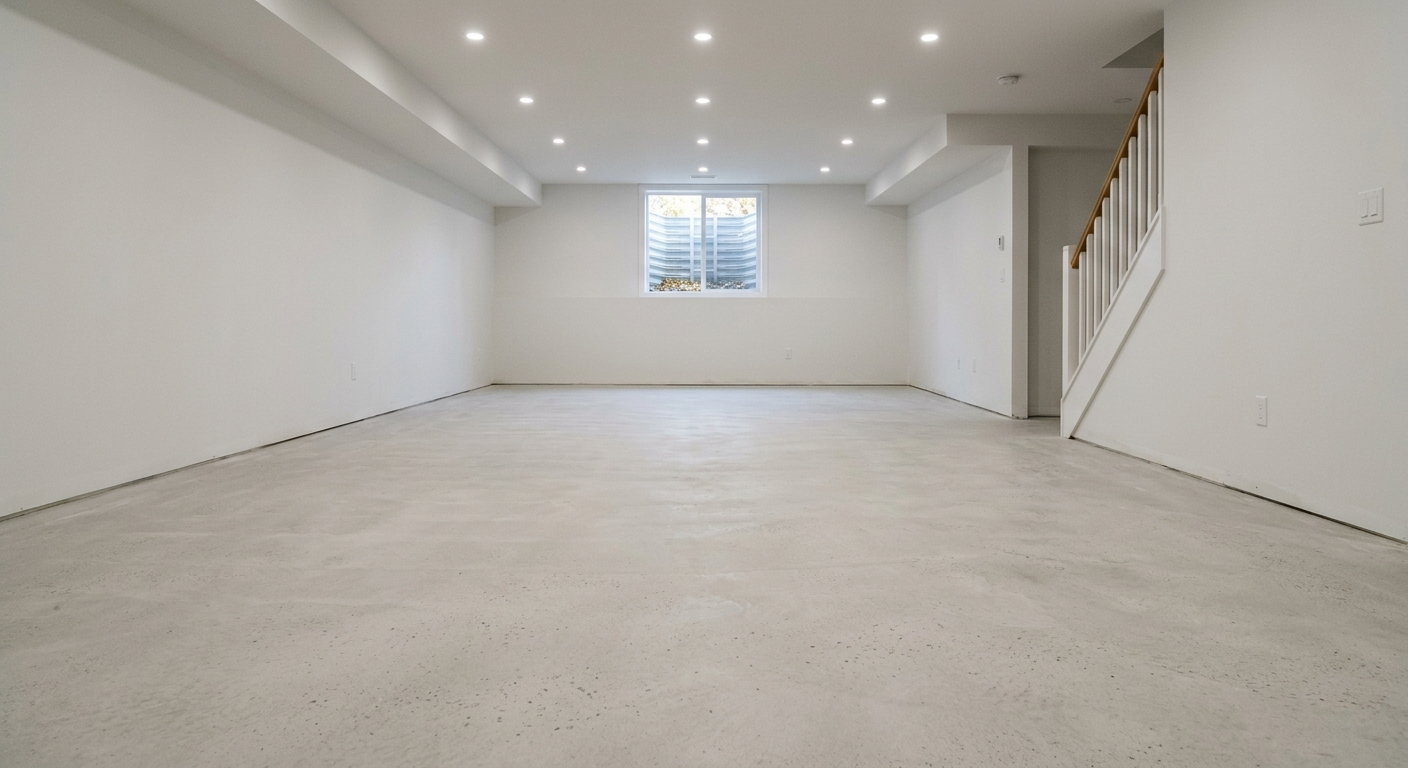
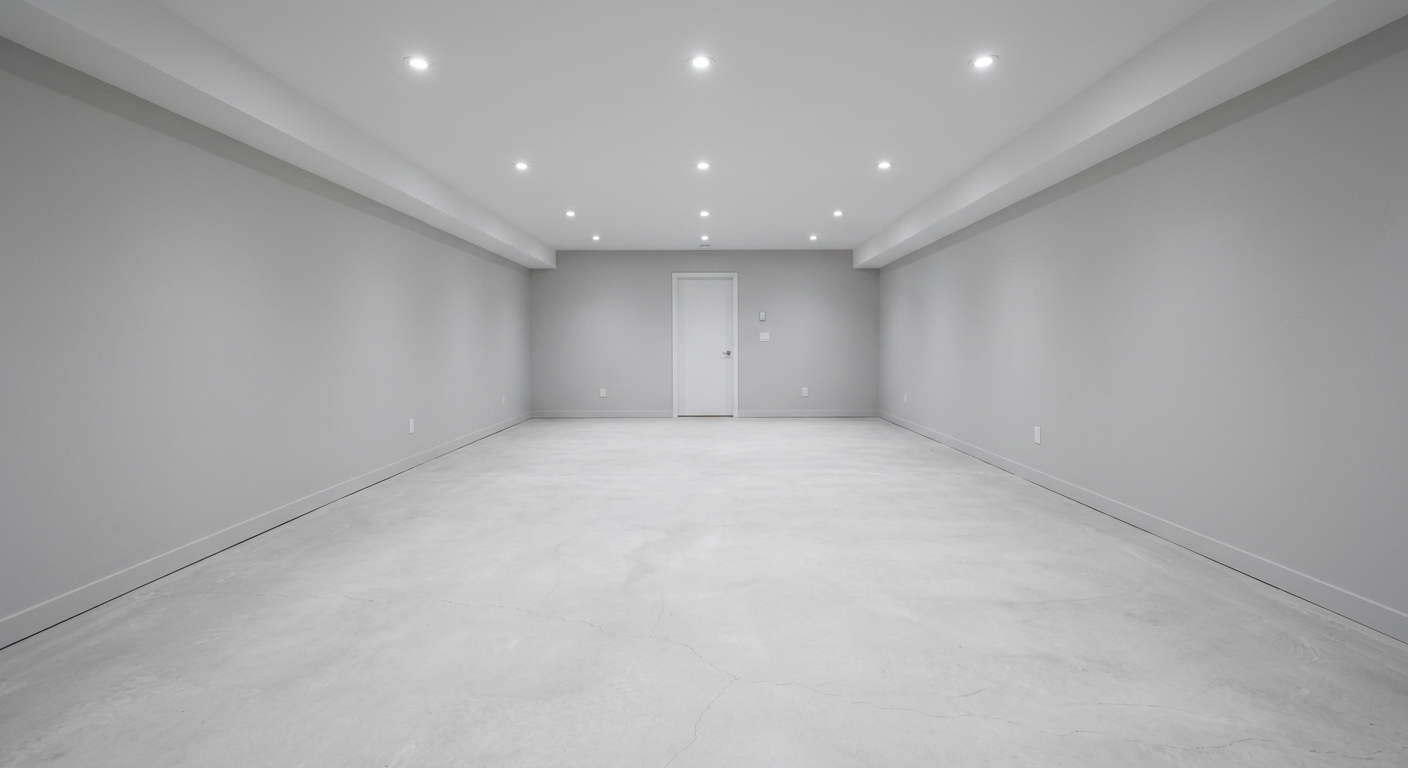
Visualizer v2: photoreal flake, real catalog swatches, fix glitchy rooms
- Flake engine rewritten to layered Voronoi: full angular coverage, inter-chip
  shadow gaps, per-chip lightness + within-chip marbling, coarse+fine size
  variation, mica sparkle. Reads like real vinyl flake instead of polka dots.
- Catalog swatches are now REAL rendered flake (renderer.swatchDataURL per
  preset) instead of the CSS dot placeholder; added a live current-blend preview
  and % readouts on the custom blend sliders.
- Fixed glitchy non-garage rooms: removed the window-reflection sampling that
  caused a bright blob (gloss is now a clean procedural sheen), and regenerated
  basement/showroom/gym as clean straight-on rectangular rooms so the floor quad
  works like the garage. Re-authored corners; dropped the wall-reject hack.
- 4 environments now (garage, basement, showroom, gym) + upload-your-own.

diff --git a/components/visualizer/Visualizer.tsx b/components/visualizer/Visualizer.tsx
@@ -22,6 +22,8 @@ export default function Visualizer() {
   const rendererRef = useRef<FlakeRenderer | null>(null);
   const [error, setError] = useState<string | null>(null);
   const [ready, setReady] = useState(false);
+  const [swatches, setSwatches] = useState<Record<string, string>>({});
+  const [currentSwatch, setCurrentSwatch] = useState<string>("");
 
   const [scene, setScene] = useState<Scene>(presetScenes[0]);
   const [blend, setBlend] = useState<Blend>(presets[0]);
@@ -33,11 +35,15 @@ export default function Visualizer() {
   const [marking, setMarking] = useState<{ url: string; w: number; h: number } | null>(null);
   const [markCorners, setMarkCorners] = useState<Corner[]>([[0.06, 0.92], [0.94, 0.92], [0.72, 0.58], [0.28, 0.58]]);
 
-  // init renderer
+  // init renderer + pre-render the real flake swatches for the whole catalog
   useEffect(() => {
     if (!canvasRef.current) return;
     try {
-      rendererRef.current = new FlakeRenderer(canvasRef.current);
+      const r = new FlakeRenderer(canvasRef.current);
+      rendererRef.current = r;
+      const sw: Record<string, string> = {};
+      for (const p of presets) sw[p.slug] = r.swatchDataURL(p, 240);
+      setSwatches(sw);
     } catch (e) {
       setError(e instanceof Error ? e.message : "WebGL2 is not available in this browser.");
     }
@@ -51,16 +57,32 @@ export default function Visualizer() {
     let alive = true;
     setReady(false);
     r.loadScene(scene.image, scene.corners, scene.tile, scene.wallReject ?? 1.2)
-      .then(() => { if (alive) { r.render(blend, gloss); setReady(true); } })
+      .then(() => {
+        if (!alive) return;
+        setCurrentSwatch(r.swatchDataURL(blend, 240)); // renders flake into the FBO
+        r.composite(gloss);
+        setReady(true);
+      })
       .catch((e) => setError(String(e?.message || e)));
     return () => { alive = false; };
     // eslint-disable-next-line react-hooks/exhaustive-deps
   }, [scene]);
 
-  // re-render on blend/gloss
+  // flake recipe changed -> regen swatch (also fills the FBO) + repaint floor
   useEffect(() => {
-    if (rendererRef.current && ready && !error) rendererRef.current.render(blend, gloss);
-  }, [blend, gloss, ready, error]);
+    const r = rendererRef.current;
+    if (!r || !ready || error) return;
+    setCurrentSwatch(r.swatchDataURL(blend, 240));
+    r.composite(gloss);
+    // eslint-disable-next-line react-hooks/exhaustive-deps
+  }, [blend, ready]);
+
+  // gloss only -> recomposite (cheap, no flake re-render)
+  useEffect(() => {
+    const r = rendererRef.current;
+    if (r && ready && !error) r.composite(gloss);
+    // eslint-disable-next-line react-hooks/exhaustive-deps
+  }, [gloss]);
 
   const loadPreset = (p: Blend) => { setBlend(p); setGloss(p.gloss); };
   const patch = (u: Partial<Blend>) => setBlend((b) => ({ ...b, ...u, name: "Custom Blend", code: "EG-000" }));
@@ -108,6 +130,21 @@ export default function Visualizer() {
 
       {/* ---- control rail ---- */}
       <aside className="flex flex-col border-t border-line bg-paper lg:border-l lg:border-t-0">
+        {/* current blend preview */}
+        <div className="flex items-center gap-3 border-b border-line p-4">
+          {currentSwatch ? (
+            // eslint-disable-next-line @next/next/no-img-element
+            <img src={currentSwatch} alt="" className="h-14 w-14 shrink-0 border border-line-2 object-cover" />
+          ) : (
+            <span className="h-14 w-14 shrink-0 border border-line-2" style={swatchStyle(blend)} />
+          )}
+          <div className="min-w-0">
+            <div className="truncate text-[0.95rem] text-ink">{blend.name}</div>
+            <div className="mono-label text-muted">
+              {blend.code} · {sizeMeta[blend.size].label} · {glossLabel(gloss)}
+            </div>
+          </div>
+        </div>
         {/* tabs */}
         <div className="grid grid-cols-3 border-b border-line">
           {(["presets", "custom", "rooms"] as const).map((t) => (
@@ -136,16 +173,25 @@ export default function Visualizer() {
                 ))}
               </div>
               <div className="mt-5 grid grid-cols-3 gap-x-4 gap-y-5">
-                {filtered.map((p) => (
-                  <button key={p.slug} onClick={() => loadPreset(p)} className="group text-left">
-                    <span
-                      className={`block aspect-square w-full border ${blend.name === p.name && blend.code === p.code ? "border-accent" : "border-line-2"}`}
-                      style={swatchStyle(p)}
-                    />
-                    <span className="mt-2 block text-[0.8rem] leading-tight text-ink">{p.name}</span>
-                    <span className="mono-label text-muted">{p.code}</span>
-                  </button>
-                ))}
+                {filtered.map((p) => {
+                  const active = blend.name === p.name && blend.code === p.code;
+                  return (
+                    <button key={p.slug} onClick={() => loadPreset(p)} className="group text-left">
+                      {swatches[p.slug] ? (
+                        // eslint-disable-next-line @next/next/no-img-element
+                        <img
+                          src={swatches[p.slug]}
+                          alt={`${p.name} flake blend`}
+                          className={`block aspect-square w-full border object-cover transition-transform group-hover:scale-[1.02] ${active ? "border-accent" : "border-line-2"}`}
+                        />
+                      ) : (
+                        <span className={`block aspect-square w-full border ${active ? "border-accent" : "border-line-2"}`} style={swatchStyle(p)} />
+                      )}
+                      <span className="mt-2 block text-[0.8rem] leading-tight text-ink">{p.name}</span>
+                      <span className="mono-label text-muted">{p.code}</span>
+                    </button>
+                  );
+                })}
               </div>
             </div>
           )}
@@ -163,18 +209,22 @@ export default function Visualizer() {
               </Field>
 
               <Field label={`Flake colors · ${blend.chips.length}/5`}>
-                <div className="space-y-2">
-                  {blend.chips.map((ch, i) => (
-                    <div key={i} className="flex items-center gap-2">
-                      <span className="h-6 w-6 shrink-0 border border-line-2" style={{ background: ch.hex }} />
-                      <input type="range" min={1} max={10} value={Math.round(ch.weight * 10)}
-                        onChange={(e) => { const c = [...blend.chips]; c[i] = { ...c[i], weight: +e.target.value / 10 }; patch({ chips: c }); }}
-                        className="flex-1 accent-[var(--color-accent)]" />
-                      {blend.chips.length > 1 && (
-                        <button onClick={() => patch({ chips: blend.chips.filter((_, j) => j !== i) })} className="mono-label text-muted hover:text-accent">✕</button>
-                      )}
-                    </div>
-                  ))}
+                <div className="space-y-2.5">
+                  {(() => {
+                    const total = blend.chips.reduce((s, c) => s + c.weight, 0) || 1;
+                    return blend.chips.map((ch, i) => (
+                      <div key={i} className="flex items-center gap-2.5">
+                        <span className="h-6 w-6 shrink-0 border border-line-2" style={{ background: ch.hex }} />
+                        <input type="range" min={1} max={20} value={Math.round(ch.weight * 20)}
+                          onChange={(e) => { const c = [...blend.chips]; c[i] = { ...c[i], weight: +e.target.value / 20 }; patch({ chips: c }); }}
+                          className="flex-1 accent-[var(--color-accent)]" />
+                        <span className="mono-label tnum w-9 text-right text-ink-2">{Math.round((ch.weight / total) * 100)}%</span>
+                        {blend.chips.length > 1 && (
+                          <button onClick={() => patch({ chips: blend.chips.filter((_, j) => j !== i) })} aria-label="Remove color" className="mono-label text-muted transition-colors hover:text-accent">✕</button>
+                        )}
+                      </div>
+                    ));
+                  })()}
                 </div>
                 {blend.chips.length < 5 && (
                   <div className="mt-3 flex flex-wrap gap-1.5 border-t border-line pt-3">

diff --git a/lib/visualizer/renderer.ts b/lib/visualizer/renderer.ts
@@ -61,31 +61,45 @@ uniform vec3 uBase; uniform vec3 uChips[5]; uniform float uCdf[5];
 uniform int uChipN; uniform float uGrid; uniform float uCoverage; uniform float uSeed;
 float h1(vec2 p){ p=fract(p*vec2(123.34,456.21)); p+=dot(p,p+45.32); return fract(p.x*p.y); }
 vec2 h2(vec2 p){ return fract(sin(vec2(dot(p,vec2(127.1,311.7)),dot(p,vec2(269.5,183.3))))*43758.5453); }
+float vnoise(vec2 p){ vec2 i=floor(p),f=fract(p); f=f*f*(3.0-2.0*f);
+  return mix(mix(h1(i),h1(i+vec2(1,0)),f.x), mix(h1(i+vec2(0,1)),h1(i+vec2(1,1)),f.x), f.y); }
 vec3 pick(float r){ for(int i=0;i<5;i++){ if(i>=uChipN) break; if(r<=uCdf[i]) return uChips[i]; } return uChips[0]; }
-void main(){
-  vec2 cell = floor(vUv*uGrid);
-  vec3 col = uBase; float bestZ = -1.0;
+
+// Voronoi over a wrapped (seamless) grid -> owner cell (xy) + f1,f2 (nearest, 2nd-nearest sq dist)
+vec4 vor(vec2 uv, float grid, float so){
+  vec2 cell = floor(uv*grid);
+  float f1=9.0, f2=9.0; vec2 owner=vec2(0.0);
   for(int dy=-1;dy<=1;dy++) for(int dx=-1;dx<=1;dx++){
     vec2 c = cell+vec2(float(dx),float(dy));
-    vec2 cw = mod(c,uGrid);
-    vec2 hh = h2(cw+uSeed);
-    vec2 seed = (c+0.18+0.64*hh)/uGrid;
-    vec2 dd = vUv-seed; dd -= round(dd);
-    float ang = atan(dd.y,dd.x);
-    float k = h1(cw+uSeed*1.7);
-    float rad = (0.46+0.5*h1(cw+uSeed*2.3))/uGrid;
-    float edge = rad*(1.0+0.30*sin(ang*5.0+k*6.28)+0.12*sin(ang*9.0-k*3.0));
-    float z = h1(cw+uSeed*3.1);
-    if(length(dd) < edge && z > bestZ){
-      if(h1(cw+uSeed*4.7) > (1.0-uCoverage)){
-        vec3 cc = pick(h1(cw+uSeed*5.9));
-        float lj = 0.90+0.18*h1(cw+uSeed*7.3);
-        col = cc*lj; bestZ = z;
-      }
-    }
+    vec2 cw = mod(c,grid);
+    vec2 seed = (c + 0.12 + 0.76*h2(cw+so))/grid;
+    vec2 d = uv-seed; d -= round(d);
+    float dist = dot(d,d);
+    if(dist<f1){ f2=f1; f1=dist; owner=cw; }
+    else if(dist<f2){ f2=dist; }
   }
-  if(h1(vUv*900.0+uSeed) > 0.988) col += 0.22;  // mica sparkle
-  frag = vec4(col,1.0);
+  return vec4(owner, f1, f2);
+}
+
+// one angular flake chip: weighted color, per-chip lightness, within-chip marble, dark inter-chip gap
+vec3 chip(vec4 v, float so, float grid, vec2 uv){
+  vec3 c = pick(h1(v.xy+so*1.7));
+  c *= 0.84 + 0.30*h1(v.xy+so*3.3);                          // per-chip lightness variation
+  c *= 0.90 + 0.18*vnoise(uv*grid*2.2 + v.xy*1.7);           // within-chip streak / marble
+  float gap = smoothstep(0.0, 0.11, (sqrt(v.w)-sqrt(v.z))*grid); // shadow line between chips
+  return c * mix(0.46, 1.0, gap);
+}
+
+void main(){
+  vec3 col = uBase * (0.88 + 0.22*vnoise(vUv*44.0));          // base coat (mostly hidden at full)
+  // coarse chips — full angular mosaic, gated by broadcast density
+  vec4 A = vor(vUv, uGrid, uSeed);
+  if(h1(A.xy+uSeed*4.7) <= uCoverage) col = chip(A, uSeed, uGrid, vUv);
+  // finer chips scattered on top -> real flake size variation
+  vec4 B = vor(vUv, uGrid*2.05, uSeed+19.0);
+  if(h1(B.xy+uSeed*6.1) <= 0.55*uCoverage) col = chip(B, uSeed+19.0, uGrid*2.05, vUv);
+  if(h1(vUv*1150.0+uSeed) > 0.991) col += 0.30;               // mica sparkle
+  frag = vec4(clamp(col,0.0,1.0),1.0);
 }`;
 
 const COMP_FS = `#version 300 es
@@ -108,19 +122,15 @@ void main(){
   float light = clamp(lum/max(uMean,0.001), 0.5, 1.7);
   vec3 lit = flake*light;
 
-  // --- polyaspartic clear coat ---
-  // wet look: a gloss coat deepens + saturates the flake (like water on stone)
+  // --- polyaspartic clear coat (fully procedural -> no scene-sampled artifacts) ---
+  // wet look: a gloss coat deepens + saturates the flake, like water on stone
   vec3 wet = lit*lit*1.45;
   lit = mix(lit, wet, uGloss*0.6);
-  // mirror reflection of the room: the floor reflects what is above it. Sample the
-  // scene vertically mirrored about the floor's back edge, blurred by distance.
-  float horizon = 0.42;                          // approx back-edge in screen v
-  float rv = horizon*2.0 - vUv.y;                // mirror this pixel above the horizon
-  vec3 refl = texture(uScene, vec2(vUv.x, clamp(rv,0.0,1.0))).rgb;
-  float reflFade = smoothstep(0.05, 0.95, f.y);  // stronger toward the back (near reflected objects)
-  // specular hotspots already baked in the photo's bright floor areas
-  float hot = smoothstep(uMean*1.04, 1.0, lum);
-  vec3 coat = refl*0.20*reflFade + vec3(1.0)*hot*0.55;
+  // a smooth far-field sheen that brightens toward the back, plus the photo's own
+  // bright floor spots. No mirroring of the room, so bright windows cannot blob.
+  float sheen = smoothstep(0.1, 1.0, f.y) * 0.5;
+  float hot = clamp(smoothstep(uMean*1.06, 1.0, lum), 0.0, 0.6);
+  vec3 coat = vec3(0.96, 0.97, 1.0) * (sheen*0.55 + hot*0.5);
   vec3 glossed = lit + uGloss*coat;
   frag = vec4(mix(scene, glossed, edge), 1.0);
 }`;

diff --git a/lib/visualizer/scenes.ts b/lib/visualizer/scenes.ts
@@ -41,13 +41,12 @@ export const scenes: Scene[] = [
     code: "02",
     image: asset("/photos/visualizer/basement.jpg"),
     corners: [
-      [-0.02, 0.99],
-      [1.02, 0.99],
-      [0.86, 0.5],
-      [0.16, 0.5],
+      [0.0, 0.96],
+      [1.0, 0.96],
+      [0.66, 0.575],
+      [0.34, 0.575],
     ],
     tile: 11,
-    wallReject: 0.8,
   },
   {
     slug: "showroom",
@@ -55,12 +54,25 @@ export const scenes: Scene[] = [
     code: "03",
     image: asset("/photos/visualizer/showroom.jpg"),
     corners: [
-      [-0.02, 0.99],
-      [1.02, 0.99],
-      [0.82, 0.48],
-      [0.18, 0.48],
+      [0.0, 0.97],
+      [1.0, 0.97],
+      [0.68, 0.56],
+      [0.32, 0.56],
     ],
-    tile: 14,
-    wallReject: 0.82,
+    tile: 13,
+    wallReject: 0.9,
+  },
+  {
+    slug: "gym",
+    name: "Home Gym",
+    code: "04",
+    image: asset("/photos/visualizer/gym.jpg"),
+    corners: [
+      [0.0, 0.96],
+      [1.0, 0.96],
+      [0.68, 0.56],
+      [0.32, 0.56],
+    ],
+    tile: 12,
   },
 ];
